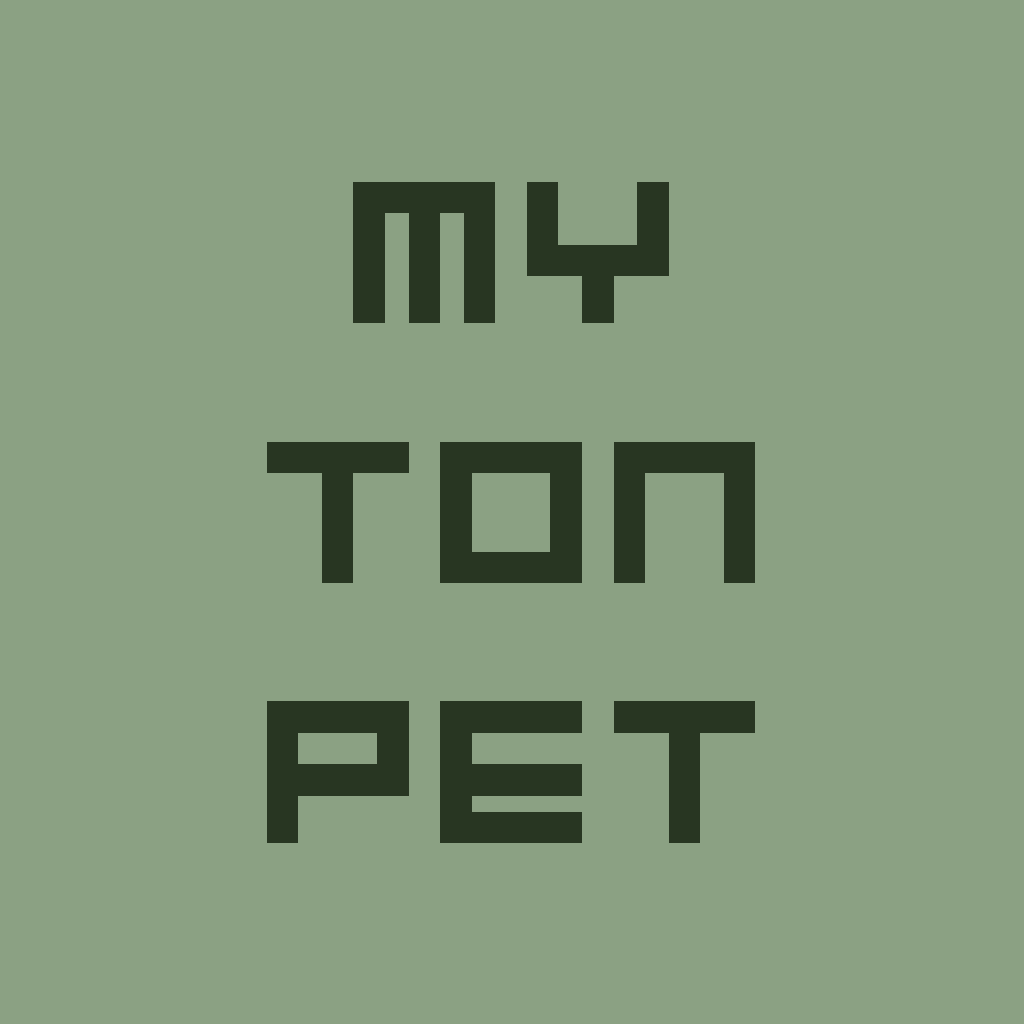
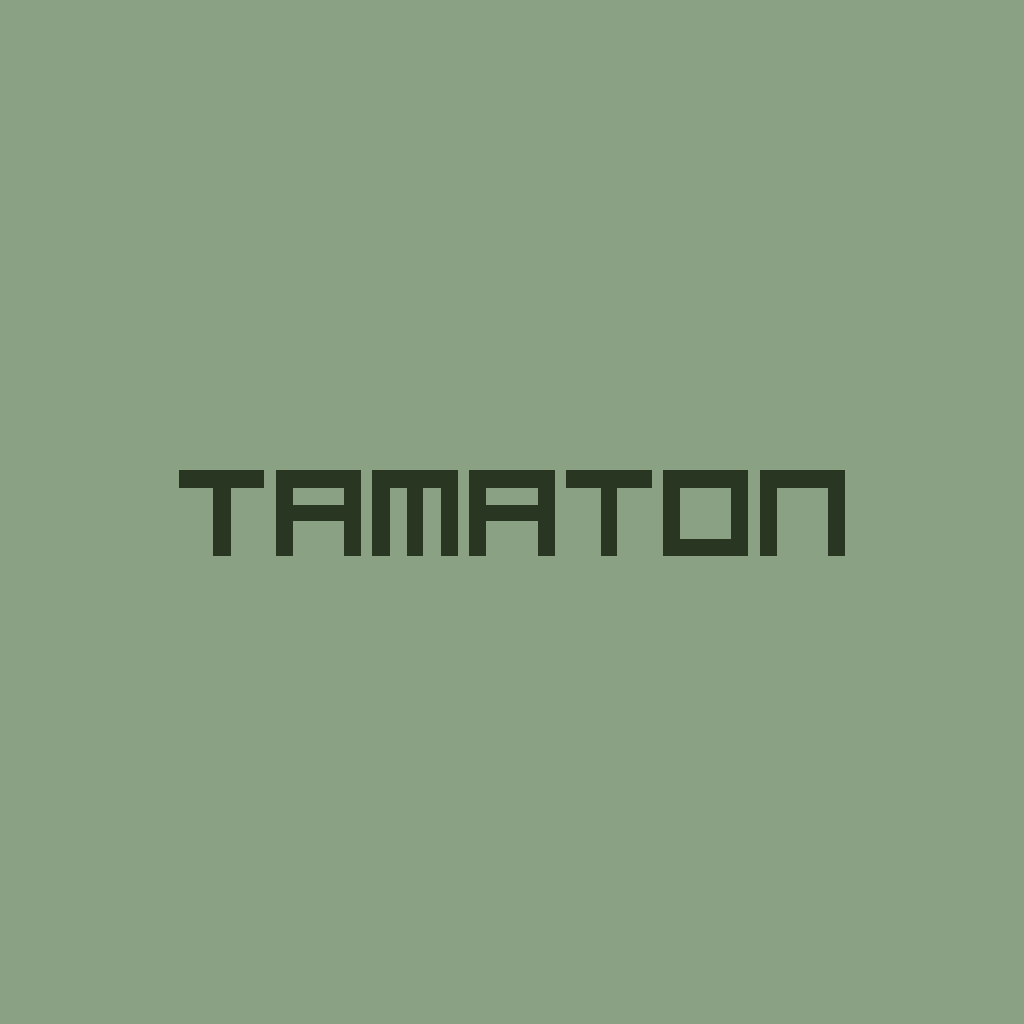
update title card

Changed region(s): [[0.1562, 0.4062, 0.8438, 0.5938], [0.25, 0.6875, 0.75, 0.8438], [0.3438, 0.1562, 0.6562, 0.3125]]

diff --git a/app/src/engine/SpriteDrawer.ts b/app/src/engine/SpriteDrawer.ts
@@ -16,50 +16,24 @@ export function drawSprite(engine: PixelEngine, sprite: string[], startX: number
   }
 }
 
-// Strictly Blocky Jumbo Monospaced "MY" (18x18 per char, NO DIAGONALS)
-// M = Top bar + 3 legs. Y = High horns + Center bar + Bottom stem.
-export const spriteMy = [
-  "##################    ####          ####",
-  "##################    ####          ####",
-  "##################    ####          ####",
-  "##################    ####          ####",
-  "####   ####   ####    ####          ####",
-  "####   ####   ####    ####          ####",
-  "####   ####   ####    ####          ####",
-  "####   ####   ####    ####          ####",
-  "####   ####   ####    ##################",
-  "####   ####   ####    ##################",
-  "####   ####   ####    ##################",
-  "####   ####   ####    ##################",
-  "####   ####   ####           ####       ",
-  "####   ####   ####           ####       ",
-  "####   ####   ####           ####       ",
-  "####   ####   ####           ####       ",
-  "####   ####   ####           ####       ",
-  "####   ####   ####           ####       ",
-];
-
-// Strictly Blocky Jumbo Monospaced "TON" (18x18 per char, NO DIAGONALS)
-// T = Top bar + Stem. O = Rectangular frame. N = Upside-down U.
-export const spriteTon = [
-  "##################    ##################    ##################",
-  "##################    ##################    ##################",
-  "##################    ##################    ##################",
-  "##################    ##################    ##################",
-  "       ####           ####          ####    ####          ####",
-  "       ####           ####          ####    ####          ####",
-  "       ####           ####          ####    ####          ####",
-  "       ####           ####          ####    ####          ####",
-  "       ####           ####          ####    ####          ####",
-  "       ####           ####          ####    ####          ####",
-  "       ####           ####          ####    ####          ####",
-  "       ####           ####          ####    ####          ####",
-  "       ####           ####          ####    ####          ####",
-  "       ####           ####          ####    ####          ####",
-  "       ####           ##################    ####          ####",
-  "       ####           ##################    ####          ####",
-  "       ####           ##################    ####          ####",
-  "       ####           ##################    ####          ####",
+// Strictly Blocky Jumbo Monospaced "TAMATON" (15x15 per char, NO DIAGONALS)
+// Shrinking 18x18 style down to 15x15 (3px line weight) to fit on one line.
+export const spriteTamaton = [
+  "###############  ###############  ###############  ###############  ###############  ###############  ###############",
+  "###############  ###############  ###############  ###############  ###############  ###############  ###############",
+  "###############  ###############  ###############  ###############  ###############  ###############  ###############",
+  "      ###        ###         ###  ###   ###   ###  ###         ###        ###        ###         ###  ###         ###",
+  "      ###        ###         ###  ###   ###   ###  ###         ###        ###        ###         ###  ###         ###",
+  "      ###        ###         ###  ###   ###   ###  ###         ###        ###        ###         ###  ###         ###",
+  "      ###        ###############  ###   ###   ###  ###############        ###        ###         ###  ###         ###",
+  "      ###        ###############  ###   ###   ###  ###############        ###        ###         ###  ###         ###",
+  "      ###        ###############  ###   ###   ###  ###############        ###        ###         ###  ###         ###",
+  "      ###        ###         ###  ###   ###   ###  ###         ###        ###        ###         ###  ###         ###",
+  "      ###        ###         ###  ###   ###   ###  ###         ###        ###        ###         ###  ###         ###",
+  "      ###        ###         ###  ###   ###   ###  ###         ###        ###        ###         ###  ###         ###",
+  "      ###        ###         ###  ###   ###   ###  ###         ###        ###        ###############  ###         ###",
+  "      ###        ###         ###  ###   ###   ###  ###         ###        ###        ###############  ###         ###",
+  "      ###        ###         ###  ###   ###   ###  ###         ###        ###        ###############  ###         ###"
 ];
 
 // Starter Pets (High-Res 24x24 centered in 32px width)
@@ -129,28 +103,6 @@ export const spriteTrianglePet = [
   "   ##########   "
 ];
 
-// Strictly Blocky Jumbo Monospaced "PET" (18x18 per char, NO DIAGONALS)
-// P = Top loop + Stem. E = Top/Mid/Bot bars + Stem. T = Top bar + Stem.
-export const spritePet = [
-  "##################    ##################    ##################",
-  "##################    ##################    ##################",
-  "##################    ##################    ##################",
-  "##################    ##################    ##################",
-  "####          ####    ####                         ####       ",
-  "####          ####    ####                         ####       ",
-  "####          ####    ####                         ####       ",
-  "####          ####    ####                         ####       ",
-  "##################    ##################           ####       ",
-  "##################    ##################           ####       ",
-  "##################    ##################           ####       ",
-  "##################    ##################           ####       ",
-  "####                  ####                         ####       ",
-  "####                  ####                         ####       ",
-  "####                  ##################           ####       ",
-  "####                  ##################           ####       ",
-  "####                  ##################           ####       ",
-  "####                  ##################           ####       ",
-];
 
 // Returns the width of the sprite
 export function getSpriteWidth(sprite: string[]) {

diff --git a/app/src/engine/TitleScreen.ts b/app/src/engine/TitleScreen.ts
@@ -1,6 +1,6 @@
 import { PixelEngine, GRID_WIDTH, GRID_HEIGHT } from './PixelEngine';
 import { drawString } from './Font';
-import { drawSprite, spriteMy, spriteTon, spritePet, getSpriteWidth, getSpriteHeight } from './SpriteDrawer';
+import { drawSprite, spriteTamaton, getSpriteWidth } from './SpriteDrawer';
 
 // State for Title Screen sparkles
 interface Sparkle {
@@ -51,26 +51,14 @@ function processAndDrawSparkles(engine: PixelEngine) {
 export function drawTitleScreen(engine: PixelEngine, frameCount: number) {
   // Center alignments
   const midX = GRID_WIDTH / 2;
-  const startY = 50;
-  const spacing = 15;
 
   // Bobbing animation
   const bob = Math.floor(Math.sin(frameCount / 25) * 3);
 
-  // 1. Draw "MY"
-  const myX = Math.floor(midX - getSpriteWidth(spriteMy) / 2);
-  const myY = startY + bob;
-  drawSprite(engine, spriteMy, myX, myY);
-
-  // 2. Draw "TON"
-  const tonX = Math.floor(midX - getSpriteWidth(spriteTon) / 2);
-  const tonY = myY + getSpriteHeight(spriteMy) + spacing;
-  drawSprite(engine, spriteTon, tonX, tonY);
-
-  // 3. Draw "PET"
-  const petX = Math.floor(midX - getSpriteWidth(spritePet) / 2);
-  const petY = tonY + getSpriteHeight(spriteTon) + spacing;
-  drawSprite(engine, spritePet, petX, petY);
+  // 1. Draw "TAMATON"
+  const tamatonX = Math.floor(midX - getSpriteWidth(spriteTamaton) / 2);
+  const tamatonY = 90 + bob;
+  drawSprite(engine, spriteTamaton, tamatonX, tamatonY);
 
   // 4. Add some "Press Start" text using the generic 3x5 font! 
   if (frameCount % 60 < 30) {

diff --git a/app/src/engine/index.ts b/app/src/engine/index.ts
@@ -6,5 +6,5 @@ export * from './MainMenu';
 export * from './FontCheckScreen';
 export * from './GameplayScreen';
 export * from './UI';
-export { spriteMy, spriteTon, spritePet } from './SpriteDrawer';
+export { spriteTamaton } from './SpriteDrawer';
 export * from './SpriteDrawer'; 
